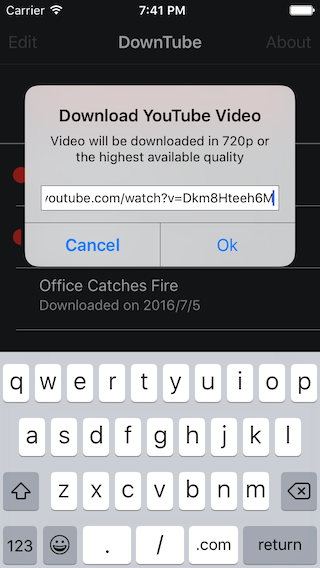
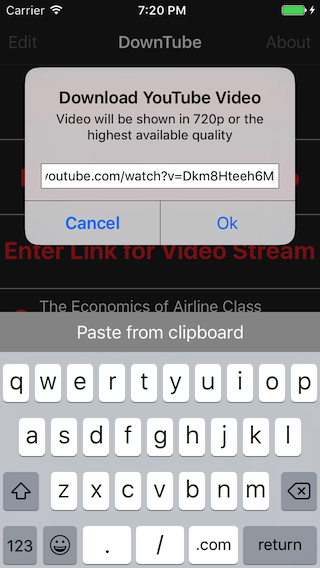
updated screenshots and silencing warnings

diff --git a/DownTube/DownTube/Controllers/VideoManager.swift b/DownTube/DownTube/Controllers/VideoManager.swift
@@ -44,7 +44,7 @@ class VideoManager: NSObject, URLSessionDelegate, URLSessionDownloadDelegate {
      - parameter onSuccess: closure that is called immediately if the video is valid
      */
     func startDownload(_ video: Video, onSuccess completion: (Int) -> Void) {
-        print("Starting download of video \(video.title) by \(video.uploader)")
+        print("Starting download of video \(video.title ?? "unknown video")")
         if let urlString = video.streamUrl, let url = URL(string: urlString), let index = self.videoIndexForStreamUrl(urlString) {
             let download = Download(url: urlString)
             download.downloadTask = self.downloadsSession.downloadTask(with: url)
@@ -81,7 +81,7 @@ class VideoManager: NSObject, URLSessionDelegate, URLSessionDownloadDelegate {
      - parameter video: Video object
      */
     func cancelDownload(_ video: Video) {
-        print("Canceling download of video \(video.title) by \(video.uploader)")
+        print("Canceling download of video \(video.title ?? "unknown video")")
         if let urlString = video.streamUrl, let download = self.activeDownloads[urlString] {
             download.downloadTask?.cancel()
             self.activeDownloads[urlString] = nil
@@ -95,7 +95,7 @@ class VideoManager: NSObject, URLSessionDelegate, URLSessionDownloadDelegate {
      - parameter video: Video object
      */
     func resumeDownload(_ video: Video) {
-        print("Resuming download of video \(video.title) by \(video.uploader)")
+        print("Resuming download of video \(video.title ?? "unknown video")")
         if let urlString = video.streamUrl, let download = self.activeDownloads[urlString] {
             if let resumeData = download.resumeData {
                 download.downloadTask = self.downloadsSession.downloadTask(withResumeData: resumeData)

diff --git a/DownTube/DownTube/Controllers/MasterViewController.swift b/DownTube/DownTube/Controllers/MasterViewController.swift
@@ -473,7 +473,11 @@ class MasterViewController: UITableViewController, NSFetchedResultsControllerDel
     func showErrorAndRemoveErroredVideos(_ error: NSError?) {
         //Show error to user, remove all unused cells from list
         DispatchQueue.main.async {
-            print("Couldn't get video: \(error)")
+            if let error = error {
+                print("Couldn't get video: \(error.localizedDescription)")
+            } else {
+                print("Couldn't get video: unknown error")
+            }
             
             let message = error?.localizedDescription
             self.showErrorAlertControllerWithMessage(message)
